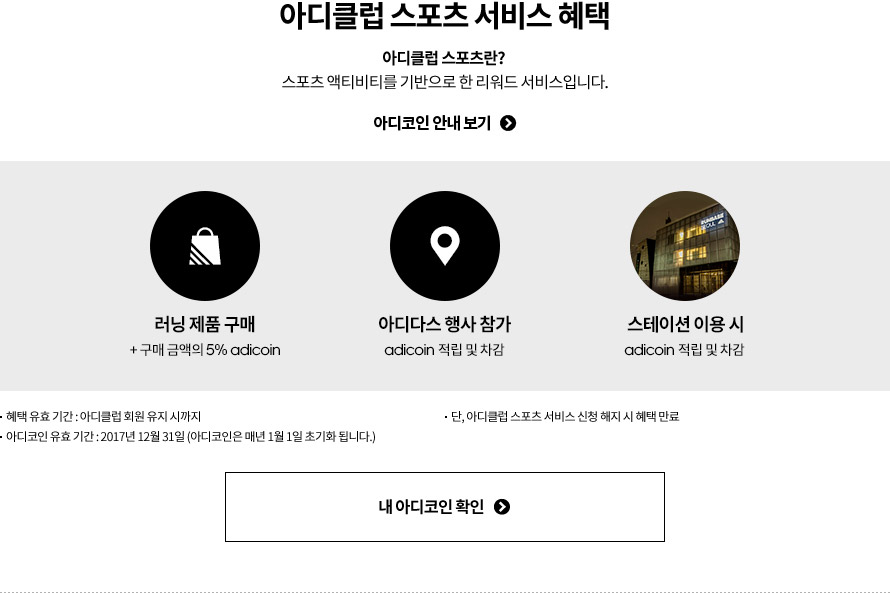
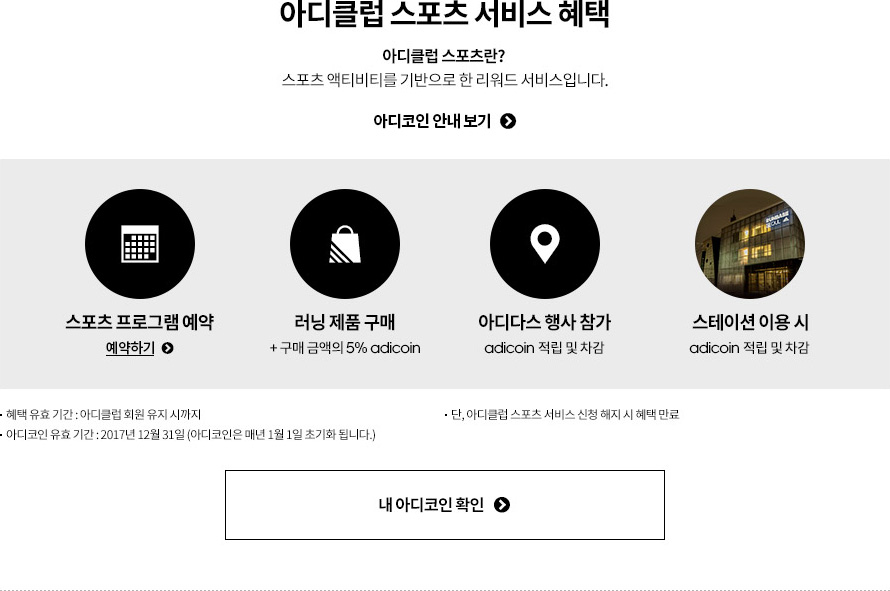
* 아디클럽 컬처/스포츠 수정 * customForm 스크립트 수정

diff --git a/app/css/adidas/adidas_r.css b/app/css/adidas/adidas_r.css
@@ -1868,12 +1868,12 @@ div.error .btn {width:700px; height:30px; text-align:center; margin-top:20px;}
 }
 
 #container_r.adiclub_renewal.adiclub_sports{
-	background: url('/images/adidas/club/adiclub_renewal_170518/adiclub_sports_bg.jpg') top center no-repeat;
+	background:#000 url('/images/adidas/club/adiclub_renewal_170518/adiclub_sports_bg2.jpg') top center no-repeat;
 	margin-top: 60px;
 }
 
 #container_r.adiclub_renewal.adiclub_culture{
-	background: url('/images/adidas/club/adiclub_renewal_170518/adiclub_culture_bg.jpg') top center no-repeat;
+	background:#012639 url('/images/adidas/club/adiclub_renewal_170518/adiclub_culture_bg2.jpg') top center no-repeat;
 	margin-top: 60px;
 }
 
@@ -12203,6 +12203,151 @@ div.search_fail .sch_failbox2 #new_prodlist .banner_list .banner_slide{width:100
 
 #container_r.adiclub_renewal .top_menu ul li a.on{
 	color:#000;
+}
+
+#container_r.adiclub_renewal .adiclub_top{
+	position: relative;
+	padding: 270px 0 50px;
+}
+
+#container_r.adiclub_renewal .adiclub_top>*{
+	letter-spacing: -0.5px;
+	color: #fff;
+}
+
+#container_r.adiclub_renewal .adiclub_top .desc{
+	margin-bottom: 30px;
+	font:500 16px/24px 'NotoSansKR','Nanum Gothic';
+	text-align: center;
+}
+
+#container_r.adiclub_renewal .adiclub_top .desc strong{
+	font-weight: 700;
+}
+
+#container_r.adiclub_renewal .adiclub_top .button_area{
+	width: 420px;
+	margin: 0 auto 25px;
+}
+
+#container_r.adiclub_renewal .adiclub_top .btn-ctm{
+	width: 420px;
+	height: 70px;
+	margin-bottom: 10px;
+}
+
+#container_r.adiclub_renewal .adiclub_top .btn-ctm>span{
+	font:700 16px/70px 'NotoSansKR','Nanum Gothic';
+}
+
+#container_r.adiclub_renewal .adiclub_top .btn-ctm .spt_bg{
+	width: 16px;
+	height: 17px;
+	margin: 0 0 0 6px;
+	position: relative;
+	display: inline-block;
+	vertical-align: middle;
+	top: 0;
+	right: 0 !important;
+	background:url('/images/adidas/club/adiclub_renewal_170518/arrows.png') -20px -20px no-repeat;
+}
+
+#container_r.adiclub_renewal .adiclub_top .selectbox-ctm{
+	width: 420px;
+	height: 70px;
+	border-width: 0;
+}
+
+#container_r.adiclub_renewal .adiclub_top .selectbox-ctm>a{
+	width: 418px;
+	height: 68px;
+	background: none;
+	border: 1px solid  #fff;
+	padding: 0;
+	color: #fff;
+	font:700 16px/68px 'NotoSansKR','Nanum Gothic';
+	text-align: center;
+}
+
+#container_r.adiclub_renewal .adiclub_top .selectbox-ctm>a em{
+	width: 16px;
+	height: 17px;
+	margin-left: 7px;
+	position: relative;
+	margin-top: -1px;
+	display: inline-block;
+	background:url('/images/adidas/club/adiclub_renewal_170518/arrows.png') 0 0 no-repeat;
+	vertical-align: middle;
+}
+
+#container_r.adiclub_renewal .adiclub_top .selectbox-ctm.open>a em{
+	background-position: -20px 0;
+}
+
+#container_r.adiclub_renewal .adiclub_top .selectbox-ctm>a span{
+	font:20px/68px 'adinenuPro-bold';
+	color: #fff;
+	letter-spacing: 0;
+}
+
+#container_r.adiclub_renewal .adiclub_top .selectbox-ctm>.select-contents{
+	width: 418px;
+	height: auto;
+	max-height: 600px;
+	overflow: hidden;
+	left: 0;
+	top: 69px;
+	border: 1px solid  #fff;
+}
+
+#container_r.adiclub_renewal .adiclub_top .selectbox-ctm>.select-contents li{
+	height: 70px;
+}
+
+#container_r.adiclub_renewal .adiclub_top .selectbox-ctm>.select-contents li a{
+	position: relative;
+	height: 70px;
+	background: #000;
+	font:700 16px/70px 'NotoSansKR','Nanum Gothic';
+	color: #fff;
+	letter-spacing: -0.5px;
+	border-bottom: 1px solid  #fff;
+}
+
+#container_r.adiclub_renewal .adiclub_top .selectbox-ctm>.select-contents li a .ico{
+	position: absolute;
+	top: 27px;
+	right: 39px;
+	width: 16px;
+	height: 17px;
+	background:url('/images/adidas/club/adiclub_renewal_170518/arrows.png') -20px -20px no-repeat;
+}
+
+#container_r.adiclub_renewal .adiclub_top .selectbox-ctm>.select-contents li a span{
+	font:18px/68px 'adinenuPro-black';
+	letter-spacing: 0.5px;
+}
+
+#container_r.adiclub_renewal .adiclub_top .selectbox-ctm>.select-contents li a:hover{
+	background: #fff;
+	color: #000;
+	/*border-bottom-width: 0;*/
+}
+
+#container_r.adiclub_renewal .adiclub_top .selectbox-ctm>.select-contents li a:hover .ico{
+	background-position: 0 -20px;
+}
+
+#container_r.adiclub_renewal .adiclub_top .advice{
+	font:500 12px/12px 'NotoSansKR','Nanum Gothic';
+	color: #bebebe;
+	text-align: center;
+}
+
+#container_r.adiclub_renewal .adiclub_top .advice a{
+	font-weight: 700;
+	color: #fff;
+	text-decoration: underline;
 }
 
 #container_r.adiclub_renewal.adiclub_sports .club_link{

diff --git a/app/html/adidas/Adiclubmemeber_sports.html b/app/html/adidas/Adiclubmemeber_sports.html
@@ -1495,15 +1495,41 @@
             </div>
 
 			<div id="contents_r">
-                <div class="club_link">
+
+				<!-- 170711 START -->
+				<div class="adiclub_top">
+					<h3 class="blind">adiclub sports</h3>
+					<p class="desc"><strong>아디다스와 함께 다양한 스포츠를 즐기고 계신가요?</strong><br/>아디클럽 스포츠 서비스 신청 하고 더욱 특별한 스포츠 라이프를 즐겨보세요!</p>
+					<div class="button_area">
+						<a href="" class="btn-ctm arrow">
+							<span>아디클럽 스포츠 서비스 신청하기<span class="ico spt_bg"></span></span>
+						</a>
+						<div class="selectbox-ctm">
+						    <a href="javascript:void(0)"><span>adiclub sports MENU <em></em></span></a>
+						    <div class="select-contents option-list">
+						        <ul>
+						            <li data-option-value="" data-option-text="프로그램 예약하기<em></em>"><a href="javascript:void(0)">프로그램 예약하기 <span class="ico"></span></a></li>
+						            <li data-option-value="" data-option-text="<span>RUNBASE</span> 바로가기<em></em>"><a href="javascript:void(0)"><span>RUNBASE</span> 바로가기<span class="ico"></span></a></li>
+						            <li data-option-value="" data-option-text="<span>AR</span> 바로가기<em></em>"><a href="javascript:void(0)"><span>AR</span> 바로가기<span class="ico"></span></a></li>
+						        </ul>
+						    </div>
+						</div>
+					</div>
+
+					<p class="advice">아직 아디클럽 회원이 아니시면 <a href="#">“가입하기”</a>를 클릭해 주세요.</p>
+				</div>
+				<!-- 170711 END -->
+
+                <!-- <div class="club_link">
                     <a href="#" class="btn"></a>
                     <a href="#" class="join"></a>
-                </div>
+                </div> -->
 
                 <div class="adiclub_body">
                     <div style="padding-top:50px;">
                         <img src="/images/adidas/club/adiclub_renewal_170518/adiclub_sports_info.jpg" alt="아디클럽 스포츠 서비스 혜택" usemap="#adiclub_benefit1">
                         <map name="adiclub_benefit1" id="adiclub_benefit1">
+							<area shape="rext" coords="101,338,180,363" href="#" alt="스포츠 프로그램 예약하기">
                             <area shape="rext" coords="365,108,526,138" href="#" alt="내 아디코인 안내보기">
                             <area shape="rext" coords="226,471,666,541" href="#" alt="내 아디코인 확인하기">
                         </map>
@@ -1576,7 +1602,6 @@
 		     data-modalpop-name="default-popup"
 		     data-modalpop-width="600"
 		     data-modalpop-height="401"
-		     data-modalpop-autoopen=""
 		>
 		    <div class="overlay"></div>
 		    <div class="popup">

diff --git a/app/html/adidas/Adiclubmemeber_culture.html b/app/html/adidas/Adiclubmemeber_culture.html
@@ -1420,10 +1420,23 @@
             </div>
 
 			<div id="contents_r">
-                <div class="club_link">
+				<!-- 170711 START -->
+				<div class="adiclub_top">
+					<h3 class="blind">adiclub sports</h3>
+					<p class="desc"><strong>아디다스와 함께 다양한 문화 활동을 즐기고 계신가요?</strong><br/>지금 아디클럽 컬처 서비스 신청 하고 다양한 스테이션에서 컬처 라이프를 즐겨보세요!</p>
+					<div class="button_area">
+						<a href="" class="btn-ctm btn-blue arrow">
+							<span>아디클럽 컬처 서비스 신청하기<span class="ico spt_bg"></span></span>
+						</a>
+					</div>
+
+					<p class="advice">아직 아디클럽 회원이 아니시면 <a href="#">“가입하기”</a>를 클릭해 주세요.</p>
+				</div>
+				<!-- 170711 END -->
+                <!-- <div class="club_link">
                     <a href="#" class="btn"></a>
                     <a href="#" class="join"></a>
-                </div>
+                </div> -->
 
                 <div class="adiclub_body">
                     <div style="padding-top:50px;">

diff --git a/app/js/customForm.js b/app/js/customForm.js
@@ -21,7 +21,7 @@
 				var optionValue = $(this).attr('data-option-value');
 
 				if($this.hasClass('selected')){
-					elemContainer.find('>a').text(optionText);
+					elemContainer.find('>a').html(optionText);
 					elemContainer.attr('data-value',optionValue);
 				}
 			});
@@ -58,7 +58,7 @@
 
 					elemOpions.removeClass('selected');
 					$this.addClass('selected');
-					elemContainer.find('>a').text(optionText);
+					elemContainer.find('>a').html(optionText);
 					elemContainer.attr('data-value',$this.attr('data-option-value'));
 
 					if(!!elemContainer.data('callback') && !!elemContainer.data('callback').after){
